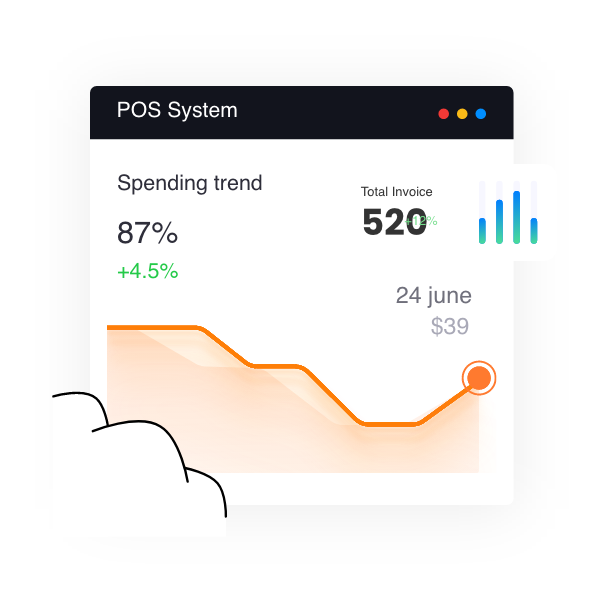
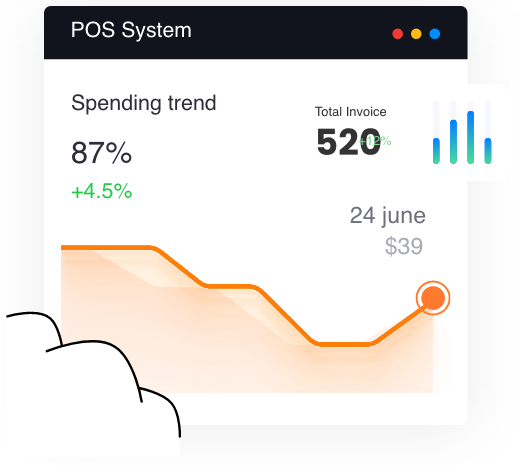
add data process communicative block

diff --git a/src/components/DataProcess.vue b/src/components/DataProcess.vue
@@ -1,4 +1,83 @@
-<script lang="ts" setup></script>
+<script lang="ts" setup>
+import c1DataAnalysis from '@/assets/images/c1-data-analysis.png'
+import c1Stats from '@/assets/images/c1-stats.png'
+</script>
 <template>
-  <section>Data process</section>
+  <section class="py-20 bg-white">
+    <div
+      class="container flex flex-col-reverse flex-wrap justify-around px-5 py-10 gap-x-10 lg:flex-nowrap lg:flex-row"
+    >
+      <div class="max-w-max">
+        <div class="relative flex-center">
+          <img :src="c1DataAnalysis" alt="c1 Data Analysis" class="shadow-lg w-96" />
+          <img
+            :src="c1Stats"
+            alt="c1 Data Analysis"
+            class="absolute w-64 shadow-lg -right-10 bottom-20"
+          />
+
+          <svg
+            xmlns="http://www.w3.org/2000/svg"
+            class="absolute rotate-180 bottom-10 w-36 -left-1 xl:left-20 lg:left-0 lg:bottom-0"
+            viewBox="0 0 220.421 182.389"
+          >
+            <g id="shape" transform="translate(1.482)">
+              <path
+                id="Vector_23"
+                data-name="Vector 23"
+                d="M9.886,68.408C21.5,82.76,53.365,86.959,53.365,86.959s7.9,38.853,26.667,51.6c22.1,15.008,68.408,0,68.408,0s4.587,28.6,17.972,38.262c16.153,11.662,51.016,0,51.016,0V0H.03V24.928S-1.065,54.873,9.886,68.408Z"
+                fill="#fff"
+              />
+              <g id="line" transform="translate(0.031 25.508)">
+                <path
+                  id="Vector_20"
+                  data-name="Vector 20"
+                  d="M.008,0s-.69,28.5,10.446,41.756C21.881,55.364,51.47,60.907,51.47,60.907"
+                  fill="none"
+                  stroke="#000"
+                  stroke-linecap="round"
+                  stroke-width="3"
+                  stroke-dasharray="0 0"
+                />
+                <path
+                  id="Vector_21"
+                  data-name="Vector 21"
+                  d="M0,0S8.549,53.607,34.314,69.485c28.305,17.444,84.926-6,84.926-6"
+                  transform="translate(48.047 43.75)"
+                  fill="none"
+                  stroke="#000"
+                  stroke-linecap="round"
+                  stroke-width="3"
+                  stroke-dasharray="0 0"
+                />
+                <path
+                  id="Vector_22"
+                  data-name="Vector 22"
+                  d="M0,0S3.669,24.677,14.583,34.314C30.422,48.3,68.627,36.887,68.627,36.887"
+                  transform="translate(148.414 114.093)"
+                  fill="none"
+                  stroke="#000"
+                  stroke-linecap="round"
+                  stroke-width="3"
+                  stroke-dasharray="0 0"
+                />
+              </g>
+            </g>
+          </svg>
+        </div>
+      </div>
+      <div class="py-3 lg:flex md:items-center md:justify-center">
+        <div class="max-w-lg space-y-8">
+          <h2 class="text-4xl font-medium">Communicative and fast data processing</h2>
+          <p class="text-sm">
+            Importance of data processing includes better increased productivity and profits,
+            target, right decisions, more accurate and reliable.
+          </p>
+          <a href="#" class="inline-block text-sm text-gray-600 hover:underline"
+            >Make your first Sale</a
+          >
+        </div>
+      </div>
+    </div>
+  </section>
 </template>

diff --git a/src/components/HeaderMain.vue b/src/components/HeaderMain.vue
@@ -71,7 +71,7 @@ const links = routeLinks
             </p>
           </div>
           <div class="col-span-2 lg:col-span-1">
-            <div class="relative">
+            <div class="relative min-w-max">
               <svg
                 xmlns="http://www.w3.org/2000/svg"
                 class="absolute top-0 -right-1 xl:right-20 lg:right-0 lg:-top-20 w-72"
